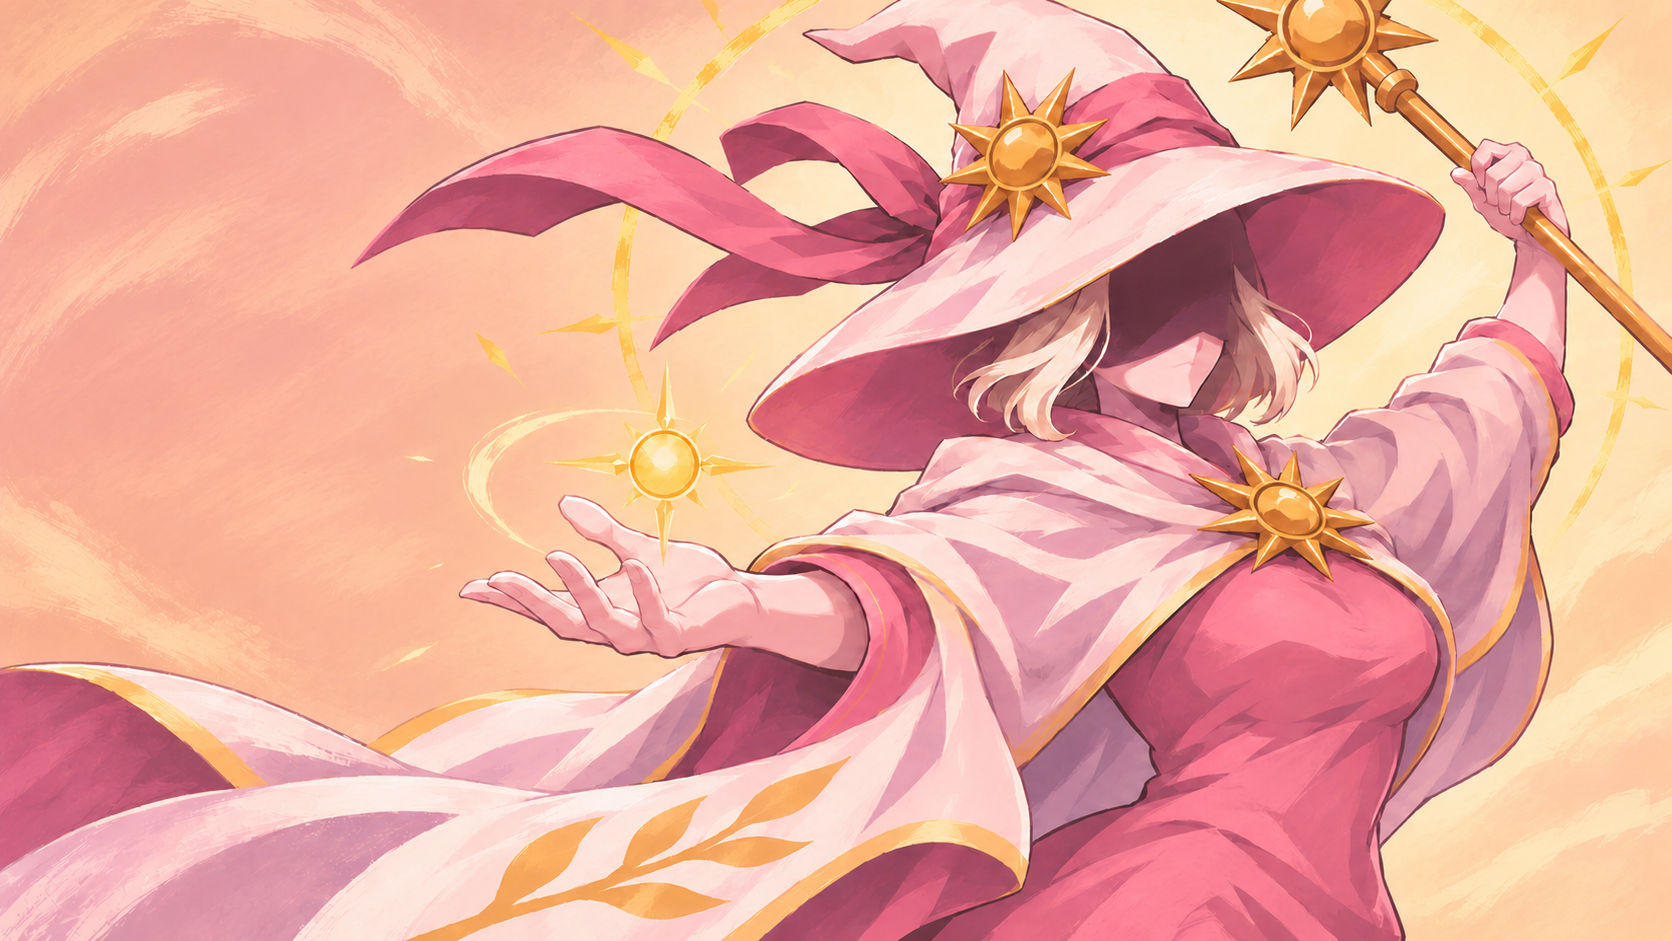
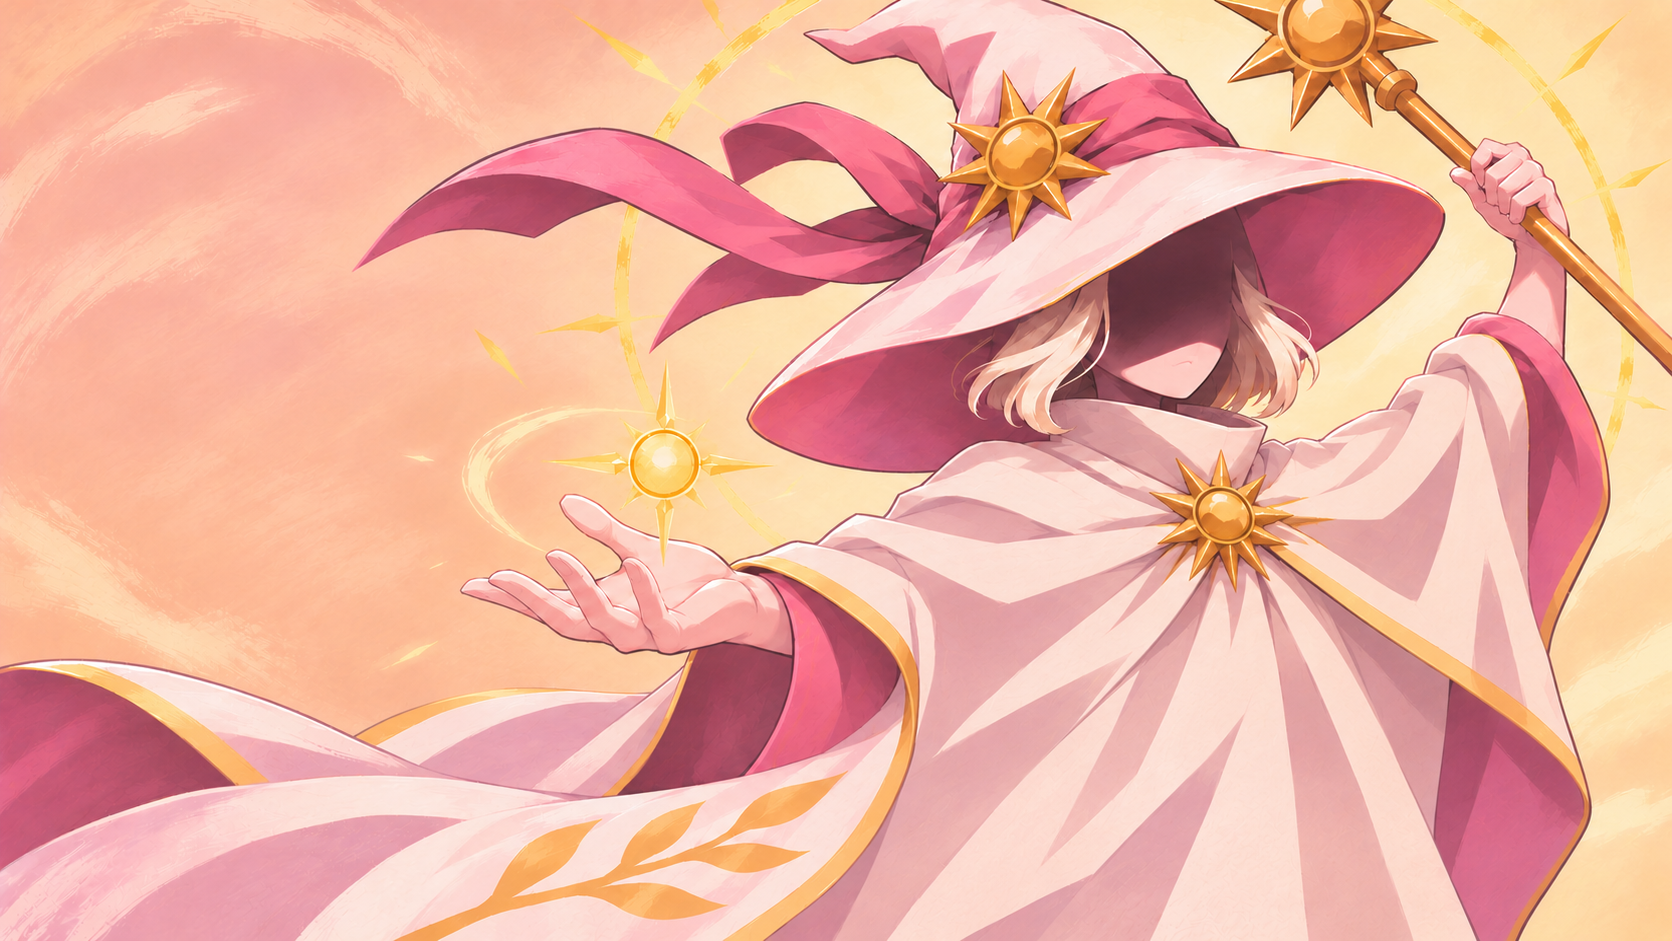
Fix Shenshen appearance baseline to approved round-face traveler

diff --git a/docs/windows-validation.md b/docs/windows-validation.md
@@ -348,3 +348,20 @@ UI 类型修复后再次完整运行 `./tools/test.ps1`，编译与打包退出 
 - 存档及范围：`tools/play-test.ps1 verify` 通过，**1045 个日常文件哈希不变**，changes=[]，隔离档 162 文件；记录 `work/apricot-dawn-gold/deploy-save-verification.json`。本轮未启动实际游戏；用户下一次启动后验收选人页。Mac 与真正双端多人未实测，不以构建或独立 GPU 代替游戏内验收。
 
[1 lines of base64/hex data omitted]
+
+## 宽斗篷、圆脸与指定淡唇：形象定稿（2026-11-07）
+
+用户最终确认 `mystery-roundface-soft-lips-v1`，要求实装并固定为深深当前形象，后续卡牌风格再调整。唯一视觉依据为 [形象基准](shenshen-appearance-baseline.md)；配色继续使用杏桃晨金，宽松闭合斗篷弱化身体曲线，眉眼鼻保持遮挡，露出较短圆润下半脸和指定淡唇。
+
[1 lines of base64/hex data omitted]
+- 实装范围：选人背景和同源小卡面；记录为今后角色与卡图制作基准。本轮没有批量重绘卡图；战斗全身动画、HUD／地图和商店仍为旧 B5，后续适配范围已在形象基准中明确。
+- 构建隔离：主工作区首次资源导入遇到原有偶发 EditorSettings 退出，第二次因并行未完成的 `AncientCardRewards` 引用缺失 `DualLightSigil` 无法编译。未修改或回退并行源码，改用稳定归档快照，仅覆盖本轮四个选人资产后沿用快照 `tools/build.ps1` 构建。交付前发现护住肚皮提示修复刚完成提交和部署，最终基线推进到 `f37f3387f7f0f6889940cf0e71ccf900fd992a18`，保留 `1aaa44a` 修复，再构建、核对并覆盖最终包。工具链和 NuGet 缓存通过项目内目录联接复用，CLI、临时目录均在项目内。
+- 源码审计：最终归档 346 个文件均匹配 f37f338；快照除四个约定资产外，其余 342 个版本化文件完全一致。129 个 C# 和 11 个本地化文件均保持稳定提交，没有混入并行新卡或文案稿。审计和构建副本位于忽略的 `work/appearance-baseline-20261107/`。
+- 编译打包：稳定快照 Windows Release publish、MegaDot 导入与 PCK 导出成功，退出 0，日志 `stable-pack-final.log`。NuGet 审计网络不可达产生 NU1900 警告，不称全程无警告；没有运行全量玩法回归。
+- 真实程序集／Godot UI：读取同一稳定快照 DLL 与最终 PCK 的专项 Harness **36 项通过**，日志 `ui-tests/run-final.log`。覆盖原生 PNG getter、同图小卡面原像素、旧 HUD 保留及三种视口的实际布局。另用锁定 ILSpy 读取最终 DLL，确认护住肚皮悬停提示仍传入 Recovery（基础 6、升级 8），记录 `guard-tooltip-final-il.txt`。
+- 独立 GPU：同一最终 PCK 的正式场景，**47 项通过**；1920×1080、1736×977、1600×1200 和连续 resize 均通过，逐张目视确认圆脸、淡唇、宽斗篷、双手、法杖及 UI 遮盖层级。`gpu-check/error.log` 为空，PCK 运行前后哈希一致。最终加入提示修复后的 PCK 与已渲染的 PCK 哈希完全相同，因此复用同一 47 项 GPU 证据，不重复渲染。该证据不是游戏实录。
+- 交付包：`dist/Shenshen-appearance-baseline-20261107.zip`，131,404,165 字节，包含稳定 Shenshen 与 BaseLib。主工作区的并行代码保持原样；本轮交付来源为上面的稳定快照，不以主工作区其他构建输出替代。
+- 备份与覆盖：确认游戏已退出，通过稳定快照原有 `tools/play-test.ps1 prepare` 备份并覆盖 7 个文件；将旧模组备份保留到主项目 `local/play-test/mod-backups/20261107T104114511/`。旧 7 个备份文件与部署前哈希逐一相同，安装后 7 个文件与稳定快照 dist 哈希逐一相同，该备份含本轮开始前已部署的提示修复。最终覆盖前另备份到 `local/play-test/mod-backups/20261107T104734697/`，清单 `deployment-final.json`。最终安装已保留提示修复，没有用首轮旧代码包作为最终交付。
+- 存档与实际游戏：`play-test.ps1 verify` 通过，**1047 个日常文件哈希不变**，changes=[]，记录 `save-verification-final.json`。本轮没有启动实际游戏，Mac 与真正双端多人未实测。
+
[1 lines of base64/hex data omitted]

diff --git a/docs/shenshen-appearance-baseline.md b/docs/shenshen-appearance-baseline.md
@@ -1,0 +1,33 @@
+# 深深当前形象定稿
+
+## 唯一视觉基准
+
+2026-11-07，用户在弱化性别特征的 A「隐面旅者」基础上确认圆润下半脸与指定淡唇，最终回复「可以，就决定这张，请实装，然后先将这张固定为深深的形象」。
+
+**当前人形视觉以这张最终确认图为准：**
+
+![深深定稿](../Shenshen/images/character_select/apricot-dawn-gold/background.png)
+
+- 正式文件：`Shenshen/images/character_select/apricot-dawn-gold/background.png`，1672×941。
+- 固定版本 ID：`mystery-roundface-soft-lips-v1`。
[1 lines of base64/hex data omitted]
+- 配色沿用 **杏桃晨金**，定义见 [配色参考](art-style-apricot-dawn-gold.md)。
+
+后续引用此文件与版本 ID，不再仅使用「第 2／3 版」等在展示顺序中可能混淆的编号。图像优先于文字形容，不能根据「圆润」等词重新生成一张相似脸来替代。
+
+## 固定的外形特征
+
+- **弱化性别轮廓**：高领、宽松闭合的奶油白斗篷覆盖胸腹，从肩部连续垂落，不强调胸腰髋体块，不恢复贴身粉色胸衣或收腰剪裁。
+- **圆润下半脸**：以下半脸参考附件 `052c98e3` 为底图，保留用户最终确认的较短、较宽、柔和下缘；不要改回此前偏窄长或尖下巴。
+- **指定淡唇**：唇形来自参考附件 `2bf0319a`，同坐标原像素复制 `[1164,356,34,16]`。嘴唇与参考像素一致，该区域之外与最终脸型参考像素一致；不使用生成式重绘冒充完全相同。
+- **遮脸与发色**：帽影仍遮住眉眼鼻，只露圆润下半脸和极淡嘴唇；少量奶油白金短发，白皙肤色，不新增睫毛、眼睛、鼻尖或浓唇色。
+- **标志元素**：太阳宽檐帽、粉色帽带、太阳胸针、金色太阳法杖、粉白金斗篷与金色叶纹保持。
+- **已确认 pose**：一手向左前方伸出托起太阳光，另一手举杖，身体微侧，斗篷与帽带展开。当前定稿不调整手位、握点、头部角度或整体构图。
+
+## 本轮接入与后续范围
+
+本轮接入选人背景及从同图原像素裁取的 440×650 小卡面，固定此图作为之后制作深深形象的参照。小卡面取景 `[946,0,440,650]`，与官方 132:195 比例相同，不另画一张相似脸。
+
+用户提到之后会调整卡牌风格；本轮不批量重绘卡图，也不改变卡牌数值、形态或玩法。现有战斗全身动画、HUD／地图头像及商店角色仍沿用此前 B5 资源，它们与本张半身定稿的全身造型适配另行制作和验证，不能将本轮选人接入表述为全游戏形象已完全同步。
+
+猫形态继续使用此前确认的幼猫，不因本次人形定稿改变。后续调整卡图时以本页的外形、[杏桃晨金配色](art-style-apricot-dawn-gold.md)、太阳元素和手绘色块为共同依据；具体卡图改动按后续要求推进。

diff --git a/docs/art-style-apricot-dawn-gold.md b/docs/art-style-apricot-dawn-gold.md
@@ -1,5 +1,7 @@
 # 杏桃晨金 · 深深配色参考
 
+**当前外形已后续定稿**：配色保持本页的杏桃晨金，人物采用宽松闭合斗篷、短圆下半脸和指定淡唇，唯一视觉基准见 [深深形象定稿](shenshen-appearance-baseline.md)。下文最初 A＋C 的融合过程是配色来源，不能用于恢复此前强调身体曲线的旧稿。
+
 ## 确认范围
 
 2026-11-07，用户确认 A「暖金晨光」与 C「蜜桃玫瑰」融合后的选人图，要求保持伸手向前、另一手举杖的原 pose，将背景和小卡面一起实装，并为配色命名、记录，供之后卡图调整时参考。
@@ -16,16 +18,16 @@
 
 以上是生成时的设计参考色，不代表原图每个区域都只有一种固定像素色。最终确认的 `background.png` 是视觉依据。
 
-- 保留奶油白斗篷、樱粉衣裙、奶油白金短发与金色太阳饰；背景粉色比衣裙更浅、更低饱和，让角色轮廓清楚。
+- 保留奶油白闭合宽斗篷、粉色衬里、奶油白金短发与金色太阳饰；背景粉色比衣物粉色更浅、更低饱和，让角色轮廓清楚，不强调身体曲线。
 - 使用明确的手绘轮廓、大色块、硬边明暗与少量干刷纹理，贴近用户提供的《杀戮尖塔 2》官方选人画面。
 - 白色保持干净，不用整图橙色滤镜；避免暗酒红、发褐的复古色调、过曝柔光或泛紫背景。
-- 深深的帽影仍遮住眉眼鼻口，只露下巴。保持用户指定的伸手施法、举杖、侧身和斗篷展开，不采用此前把空手收回的方案。
+- 深深的帽影仍遮住眉眼鼻，露出最终确认的圆润下半脸和指定淡唇。保持用户指定的伸手施法、举杖、侧身和斗篷展开，不采用此前把空手收回的方案。
 
 ## 正式素材与复用
 
 正式资源位于 `Shenshen/images/character_select/apricot-dawn-gold/`：
 
[2 lines of base64/hex data omitted]
 - `selection.json`：记录配色名称、参考色、原图尺寸和选人小卡面的取景区域。
 - `select-icon.png`：从原图 `[946,0,440,650]` 原像素裁取，保持官方 132:195 比例，无拉伸、无额外留白，不另生成一张相似人物。
 - `provenance.json`：最终生成来源与确认信息；原始生成文件名只作来源记录，运行资源不依赖本机生成目录。

diff --git a/docs/character-design.md b/docs/character-design.md
@@ -28,7 +28,7 @@
 - 荆棘与格挡反弹可以在同一段攻击上同时结算。完全格挡时仍有荆棘反伤，但不会触发扣血增长荆棘；猫形闪避掉的那一段不触发荆棘或格挡反弹。
 - 「炸毛」按 2026-11-06 后续反馈削弱基础版：生效后本场首次因敌人攻击实际扣血获得 3 荆棘，此后不再增长。升级后才开放后续每次敌方攻击实际扣血获得 1，以及敌人成功施加每种负面效果时另获 1；首次奖励仍不随回合或变身刷新。升级版的负面奖励独立于首次扣血计数，同种负面一次多层只计一次，不同负面分别计数；免疫、塞牌、自伤和中毒扣血边界保持原规则。
 - 在 macOS 与 Windows 上共用项目源码和素材，分别验证游戏内运行。
-- 当前人形美术已于 2026-11-06 改为神秘斗篷少女「1 号帽身比例版」：粉白金层叠斗篷、太阳帽与法杖、裸足，少量白金发；帽檐/阴影遮住眉眼鼻口，只露下巴。采用较小帽身占比与较窄外披的修长观感；胸部在完整衣物下保留照片参考的自然体量与柔和轮廓，整体为游戏化绘画，不回到真人写实风。此前露全脸、短裙与靴子的 v5 是历史稿，不再是当前目标；提示中的比例数字不是用户确认的精确人体参数。
+- 当前人形视觉已于 2026-11-07 固定为 [宽斗篷／圆脸／淡唇定稿](shenshen-appearance-baseline.md)：弱化胸腰髋轮廓的宽松闭合斗篷、最终确认的短圆下半脸、指定参考嘴唇的原像素、太阳帽与法杖、奶油白金发及杏桃晨金配色。眉眼鼻保持遮挡，嘴唇可淡淡看见。此基准取代此前强调体态曲线和只露下巴的外形稿；当前接入选人背景与同源小卡面，战斗全身动画和卡牌插图留待后续按该基准适配。
 - 当前猫形采用用户附图确认的 B 稿幼猫：奶油灰银长毛、聪明专注、幼猫头身比例、小爪与蓬尾，正常四足、不太写实；不加人类发型、衣服或装饰。按用户对装配的纠正，身体应像原图自然舒展，保留肩臀间距和前后腿落脚位置，不能把“幼猫”理解为把身体压短、四爪挤在腹下。此前自然长毛成年猫 v2 保留为历史稿，幼猫是同一角色的互斥猫形态。
 - 战斗角色需要实际动画，不能只替换整张静态贴图。选定外形后制作分件动作，具体实现与验证范围见 [角色美术与动画](character-art.md)。
 - 建议以 `Shenshen` 作为稳定内部 ID；显示名称后续可改，不必随之更换内部 ID 或项目目录名。

diff --git a/docs/character-art.md b/docs/character-art.md
@@ -1,8 +1,10 @@
 # 角色美术与动画（更新于 2026-11-07）
 
+**当前形象定稿**：用户已确认弱化性别轮廓的 A「隐面旅者」宽松斗篷、较短圆润下半脸及指定淡唇，详见 [深深形象基准](shenshen-appearance-baseline.md)。这张图已固定为后续人形和卡图制作的视觉依据；当前接入范围为选人背景和同源小卡面，战斗全身动画、HUD／地图及商店 B5 资源待后续适配。下文 B5 体态、只露下巴等外形描述保留为历史，不覆盖本次确认。
+
 2026-11-07 选人更新：用户确认「杏桃晨金」配色及伸手施法、举杖的横向近景。选人背景现独立使用该确认稿，小卡面从同图原像素裁取；战斗 B5 形象与 HUD 保持原资源。名称、配色参考和未来卡图复用范围见 [杏桃晨金配色参考](art-style-apricot-dawn-gold.md)。下文选人与战斗共用原图、分层日轮的描述保留为此前版本记录。
 
-最新确认：用户在日轮圣像 B4 的三版脚踝对比中选择 **B5-3「柔和饱满」**，并明确其余部分没有问题。当前少女外形以 `human/solar-b5/approved-design.png` 为准，保留较饱满且自然过渡的脚踝、白皙肤色、奶油白金短发、双手、粉白金斗篷和日轮。幼猫仍沿用先前指定原图。静态确认解除此前的动画暂停；新动画采用连续二维网格，避免重新生成分件再拼装改变袖子和四足位置。设计确认、代码、构建与画面验证分别见 [B5 接入记录](art-solar-b5-2026-11-06.md)。
+此前战斗基线：用户在日轮圣像 B4 的三版脚踝对比中选择 **B5-3「柔和饱满」**，并明确其余部分没有问题。该版使用 `human/solar-b5/approved-design.png`，保留较饱满且自然过渡的脚踝、白皙肤色、奶油白金短发、双手、粉白金斗篷和日轮。幼猫仍沿用先前指定原图。当时静态确认解除动画暂停；动画采用连续二维网格，避免重新生成分件再拼装改变袖子和四足位置。设计确认、代码、构建与画面验证分别见 [B5 接入记录](art-solar-b5-2026-11-06.md)。
 
 下文「1 号帽身比例版」及被退回的分件重制均保留为历史记录，不能当作当前获选外形或用户对旧装配的认可。
 

diff --git a/README.md b/README.md
@@ -6,7 +6,7 @@
 
 ## 当前可用内容
 
-- 选人背景与小卡面采用用户确认的「杏桃晨金」配色，保持伸手施法、举杖的近景 pose；小卡面与背景同源，按官方竖卡比例铺满。配色名称及后续卡图复用参考见 [杏桃晨金](docs/art-style-apricot-dawn-gold.md)。本轮交付为 `dist/Shenshen-apricot-dawn-gold-20261107.zip`，分层验证与部署结果见 [Windows 验证记录](docs/windows-validation.md)。
+- 当前深深形象已固定为「杏桃晨金」宽斗篷定稿：弱化身体曲线、短圆下半脸、指定淡唇，保持伸手施法和举杖 pose。选人背景及同源小卡面已接入；后续卡图以 [形象基准](docs/shenshen-appearance-baseline.md) 为准，本轮不批量重绘卡牌。交付为 `dist/Shenshen-appearance-baseline-20261107.zip`，构建与部署范围见 [Windows 验证记录](docs/windows-validation.md)。
 
 - 六张初始牌（小火球、光之护盾、光之印记、爪击、咪挡、猫之甩尾）已接入用户确认的统一手绘卡图，替换此前共用的占位图；保留既有双面变形卡图。初始牌接入时的整合包为 `dist/Shenshen-starter-art-20261107.zip`，包含现有白卡、蓝卡及初始牌素材；本轮编译、打包和部署范围见 [初始牌卡图接入记录](docs/art-starter-cards-2026-11-07.md)，游戏实测由用户完成。
 - 已实装 20 张白卡及全部确认升级（少女／猫各 10），支持荆棘、有限格挡反弹与多段印记联动；多人另保留光之祝福。40 张蓝卡的玩法、升级与卡图已接入源码（少女／猫各 20），进入正常奖励和商店候选；此前只有既有 3 张蓝卡可实际获取，其余卡仅为设计与预览。熔光穿刺、镜面法衣与翻身回击按最新方案作原型实现，不将其细则写成此前已逐项确认。Windows Release 编译与资源打包已完成，0 警告、0 错误；本轮未运行测试或游戏，等待用户实测。该轮交付包为 `dist/Shenshen-blue-cards-20261107-r2.zip`。起始牌组保持 19 张，范围与产物哈希见 [蓝卡接入记录](docs/blue-cards-2026-11-07.md)，完整参数见 [角色设计](docs/character-design.md)。
